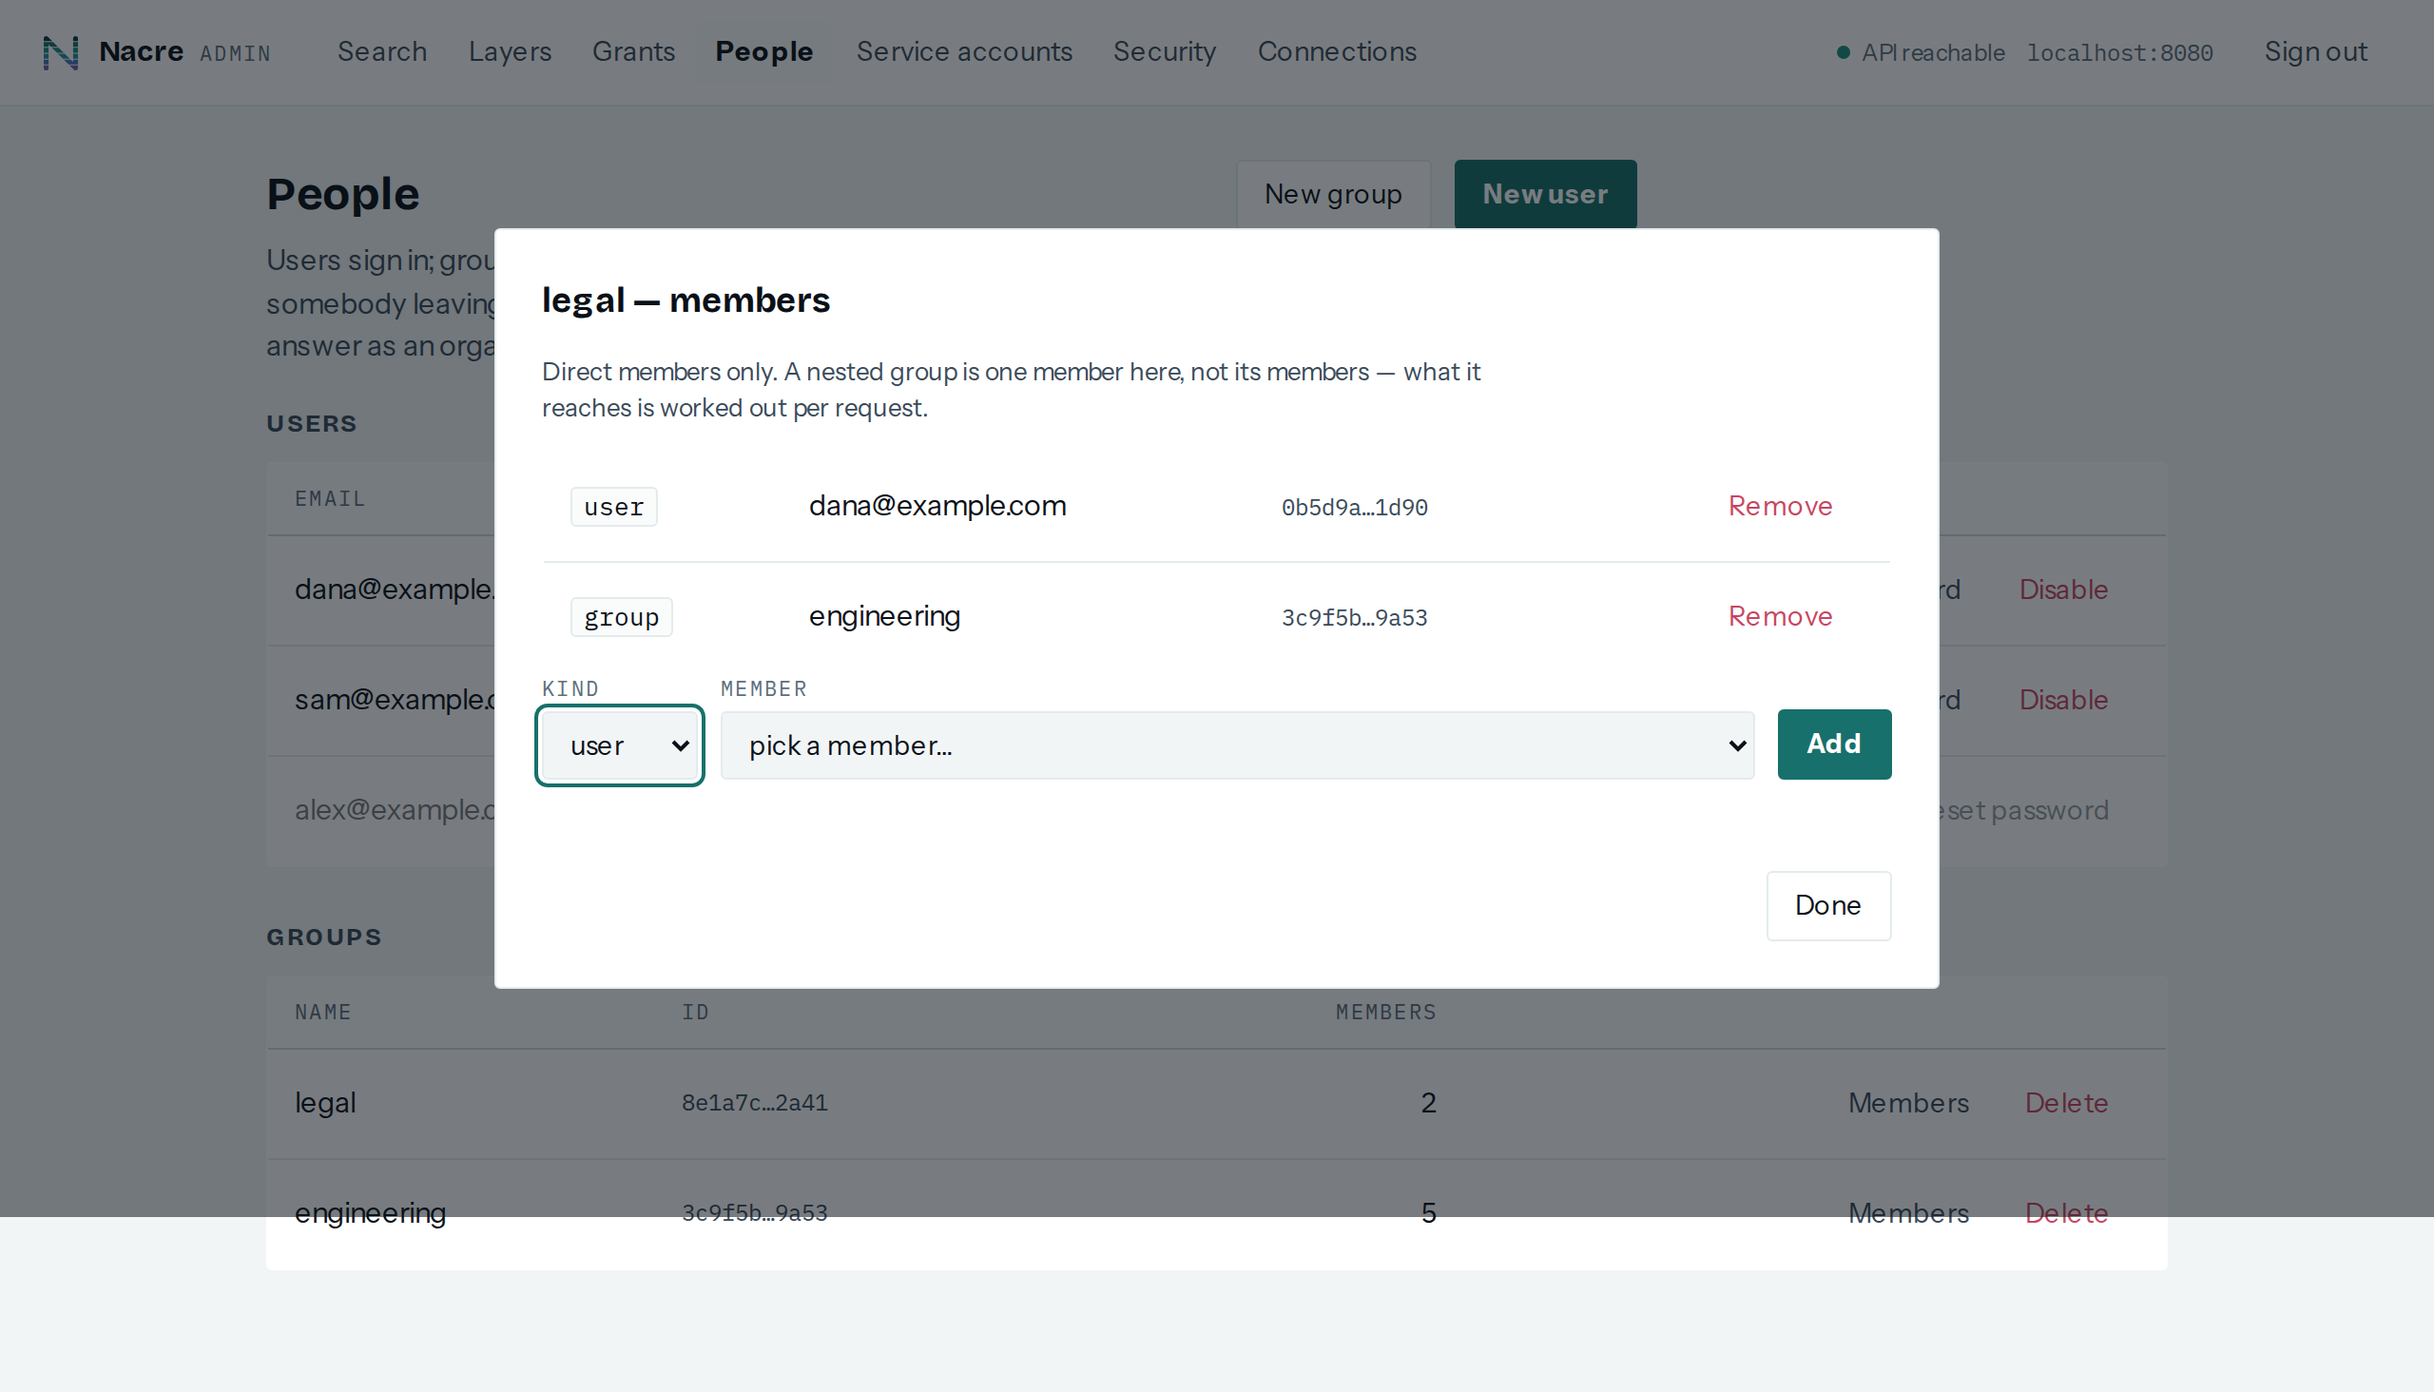
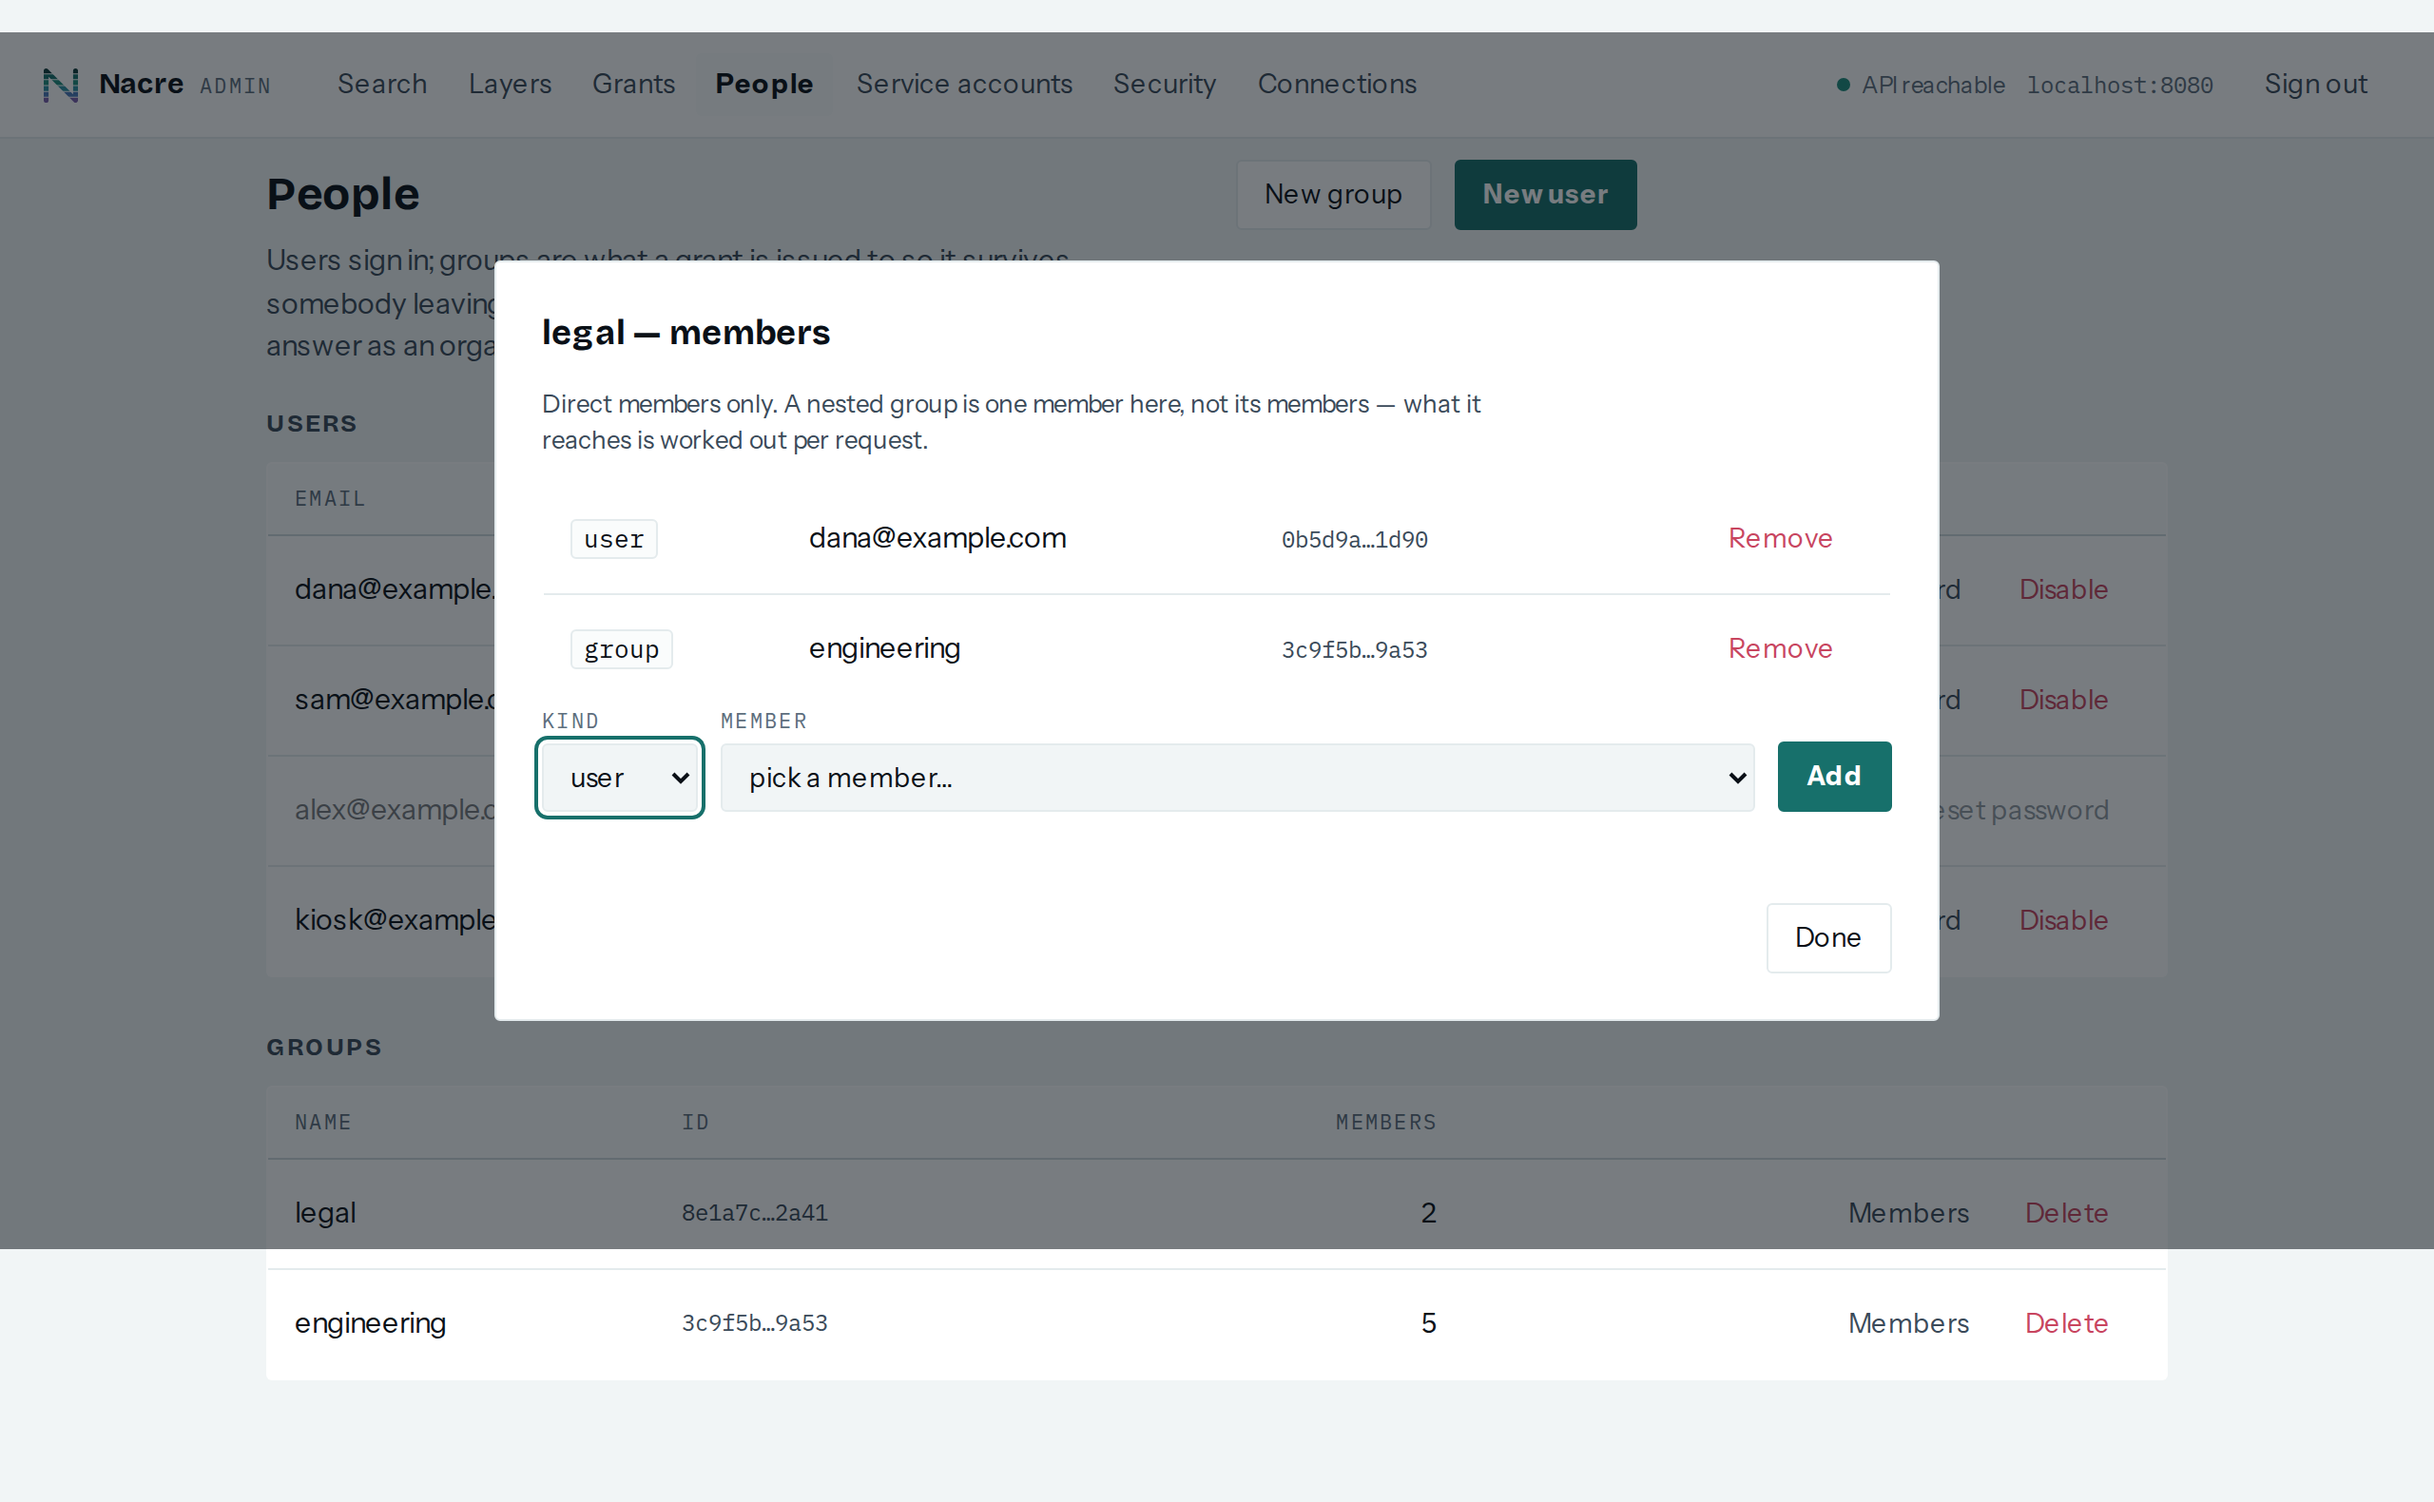
feat(admin): an administrator can create a shared account from the console
`users.shared` reached the API, the SDK and `nacre users create`, and the
console knew nothing about it — so the one route an administrator has to a
published credential was `--shared` on a command line or `curl`. The
model-offers-it-and-the-product-gives-no-route shape, arriving one surface
after the column that closed it.

The New user dialog carries the box, with what it does written in terms of
what goes wrong without it: the first person to enrol a second factor on a
published login locks out everybody else, and no administrator can undo that.
It says the choice is fixed at creation, because clearing it on an account
whose password is already out reopens the door to whoever holds it.

`shared` is in the listing too, and that is not decoration: it cannot be
changed afterwards, so an administrator who ticked the box has no other way to
see it again — and it decides whether the person on the other end can hold a
second factor at all. It goes through `UserView`, the list query, `userJson`,
the contract's `User` schema and the SDK, so the row can say `shared` where it
already says `sso` and `disabled`.

The screenshot fixture gains a `kiosk@example.com` row, so the tag and the
dialog are in the pictures rather than being things only the code knows about.
Twelve images regenerated; every screen rendered with no page error and no
missing fixture.

Claude-Session: https://claude.ai/code/session_01VyoRZgaKQuJJSJ6iSPBHD7

diff --git a/packages/admin/src/views/people.ts b/packages/admin/src/views/people.ts
@@ -85,6 +85,11 @@ function userTable(users: readonly User[], root: HTMLElement): HTMLElement {
           // An SSO-only account has no local password, which is why a reset
           // would be answering a question nobody asked.
           u.hasPassword ? null : h('span', { class: 'tag' }, 'sso'),
+          // A credential several people hold. Shown because it is fixed at
+          // creation and decides whether this person can hold a second factor
+          // at all — an administrator who ticked that box has no other way to
+          // see it afterwards, and the row is where they would look.
+          u.shared ? h('span', { class: 'tag' }, 'shared') : null,
         ),
         h('td', {}, h('span', { class: 'slug' }, u.role)),
         // The id, because issuing a grant to one person takes it.
@@ -138,6 +143,7 @@ function openUser(root: HTMLElement): void {
     h('option', { value: 'member' }, 'member — reaches only what a grant gives'),
     h('option', { value: 'org_admin' }, 'org_admin — administers this organization'),
   )
+  const shared = h('input', { type: 'checkbox' }) as HTMLInputElement
   const message = h('p', { class: 'form-message' })
 
   const dialog = h('dialog', { class: 'dialog' },
@@ -149,6 +155,7 @@ function openUser(root: HTMLElement): void {
         const created = await client().users.create(
           email.value.trim(),
           role.value === 'org_admin' ? 'org_admin' : 'member',
+          { shared: shared.checked },
         )
         showSecret(dialog, created.password, `${created.email} created`, root)
       } catch (error) {
@@ -159,10 +166,19 @@ function openUser(root: HTMLElement): void {
       h('h2', {}, 'New user'),
       h('label', { class: 'field' }, h('span', {}, 'Email'), email),
       h('label', { class: 'field' }, h('span', {}, 'Role'), role),
+      h('label', { class: 'field inline' }, shared, h('span', {}, 'Several people will hold this password')),
       h('p', { class: 'hint' },
         'A new member reaches nothing until a grant says otherwise — issue one to them, or add them to a group that already has one.'),
       h('p', { class: 'hint' },
         'The password is generated here and shown once. It is not accepted as input: a password an administrator chose is one they know.'),
+      // What the box does, in the terms of what goes wrong without it. An
+      // administrator ticking it is publishing a credential, and the thing they
+      // need to know is that this is the choice which stops the first person to
+      // use it from taking it away from the rest.
+      h('p', { class: 'hint' },
+        'Tick it for a login you will publish or hand round — a demonstration, a kiosk, a read-only account for a team. It then cannot enrol a second factor, change its own password, or be sent a reset link: there is nobody for a factor to belong to, and whoever enrolled one first would lock out everybody else, which no administrator can undo. You still reset its password here, which is how you rotate a published one.'),
+      h('p', { class: 'hint' },
+        'It cannot be changed afterwards — clearing it on an account whose password is already out would reopen that door to whoever holds it. Make a new account instead.'),
       message,
       h('div', { class: 'dialog-actions' },
         h('button', { type: 'button', class: 'btn', onclick: () => dialog.close() }, 'Cancel'),

diff --git a/packages/api/src/principals.ts b/packages/api/src/principals.ts
@@ -51,6 +51,15 @@ export interface UserView {
    * has no local credential to steal.
    */
   readonly hasPassword: boolean
+  /**
+   * Whether this credential is one several people hold.
+   *
+   * In the listing because an administrator who ticked that box when creating
+   * the account has no other way to see it afterwards — and it decides whether
+   * the person on the other end can hold a second factor at all, which is
+   * exactly the kind of thing a screen must be able to say.
+   */
+  readonly shared: boolean
 }
 
 export interface Users {
@@ -198,9 +207,10 @@ export class PostgresUsers implements Users {
           created_at_text: string
           disabled_at: Date | null
           has_password: boolean
+          shared: boolean
         }>(
           `SELECT id, email, role, created_at, created_at::text AS created_at_text,
-                  disabled_at, (password_hash IS NOT NULL) AS has_password
+                  disabled_at, (password_hash IS NOT NULL) AS has_password, shared
              FROM users WHERE org_id = $1${seek} ORDER BY created_at, id${cap}`,
           after === undefined ? [auth.orgId] : [auth.orgId, after.createdAt, after.id],
         )
@@ -216,6 +226,7 @@ export class PostgresUsers implements Users {
           createdAt: r.created_at.toISOString(),
           disabledAt: r.disabled_at?.toISOString() ?? null,
           hasPassword: r.has_password,
+          shared: r.shared,
         }))
 
         return pageOf(users, page, (u, i) => ({
@@ -268,6 +279,7 @@ export class PostgresUsers implements Users {
             createdAt: row.created_at.toISOString(),
             disabledAt: null,
             hasPassword: true,
+            shared: shared === true,
           },
         }
       },

diff --git a/packages/sdk/src/types.ts b/packages/sdk/src/types.ts
@@ -217,6 +217,16 @@ export interface User {
   readonly disabledAt: string | null
   /** Whether a local password is set at all. False is an SSO-only account. */
   readonly hasPassword: boolean
+  /**
+   * Whether this credential is one several people hold — a published demo
+   * login, a kiosk, a read-only account handed round a team.
+   *
+   * Such an account has no `/v1/me` credential surface: it cannot enrol a
+   * second factor, change its own password, or be sent a reset link. An
+   * administrator still resets its password, which is how a published one is
+   * rotated. It is fixed at creation and cannot be changed afterwards.
+   */
+  readonly shared: boolean
 }
 
 export interface CreatedUser extends User {

diff --git a/packages/api/src/server.ts b/packages/api/src/server.ts
@@ -1115,6 +1115,11 @@ function userJson(u: UserView): Record<string, unknown> {
     // account, which is a fact an administrator needs and which says nothing
     // about the credential.
     has_password: u.hasPassword,
+    // Whether several people hold this password. An administrator who ticked
+    // that box when creating the account has no other way to see it afterwards,
+    // and it decides whether the person on the other end can hold a second
+    // factor at all.
+    shared: u.shared,
   }
 }
 

diff --git a/packages/api/src/__tests__/principals-surface.test.ts b/packages/api/src/__tests__/principals-surface.test.ts
@@ -42,6 +42,7 @@ const users: Users = {
         createdAt: '2026-01-01T00:00:00.000Z',
         disabledAt: null,
         hasPassword: true,
+        shared: false,
       },
     ],
   }),
@@ -57,6 +58,7 @@ const users: Users = {
             createdAt: '2026-01-01T00:00:00.000Z',
             disabledAt: null,
             hasPassword: true,
+            shared: false,
           },
         },
   update: async (_a, id) =>

diff --git a/packages/sdk/src/client.ts b/packages/sdk/src/client.ts
@@ -1894,6 +1894,7 @@ function userFrom(u: Record<string, unknown>): User {
     createdAt: String(u.created_at ?? ''),
     disabledAt: (u.disabled_at as string | null) ?? null,
     hasPassword: u.has_password === true,
+    shared: u.shared === true,
   }
 }
 
